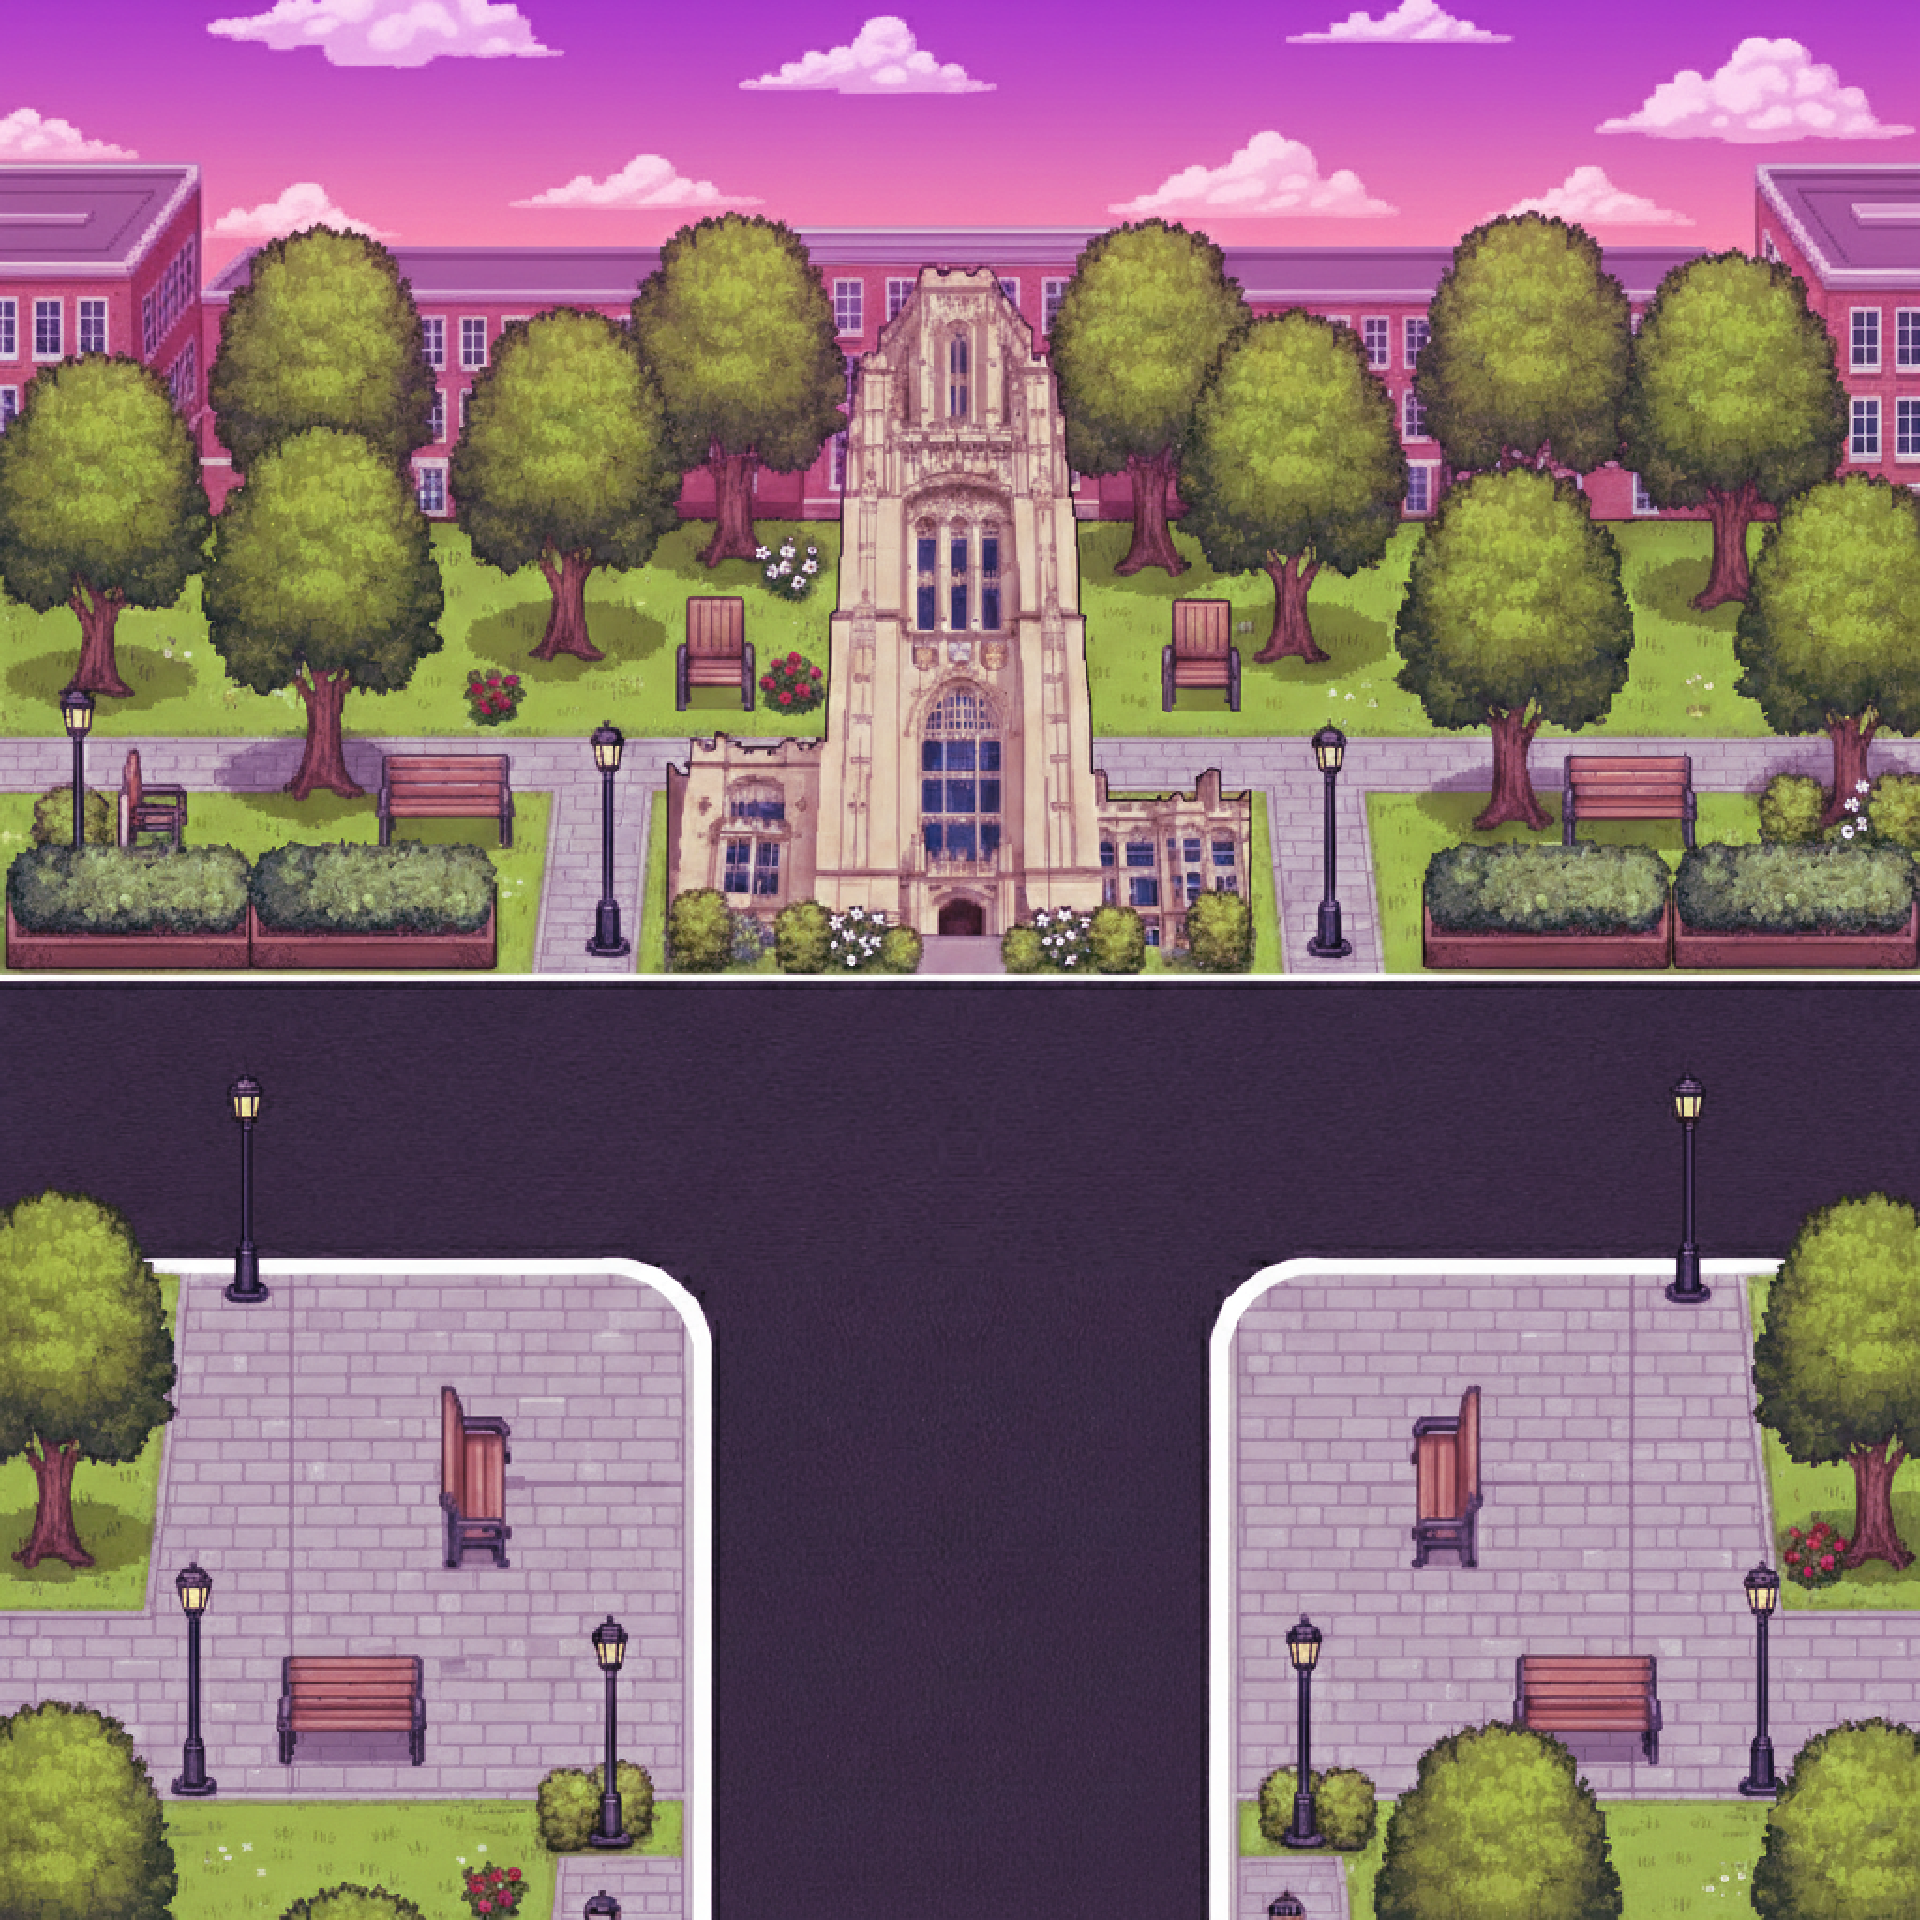
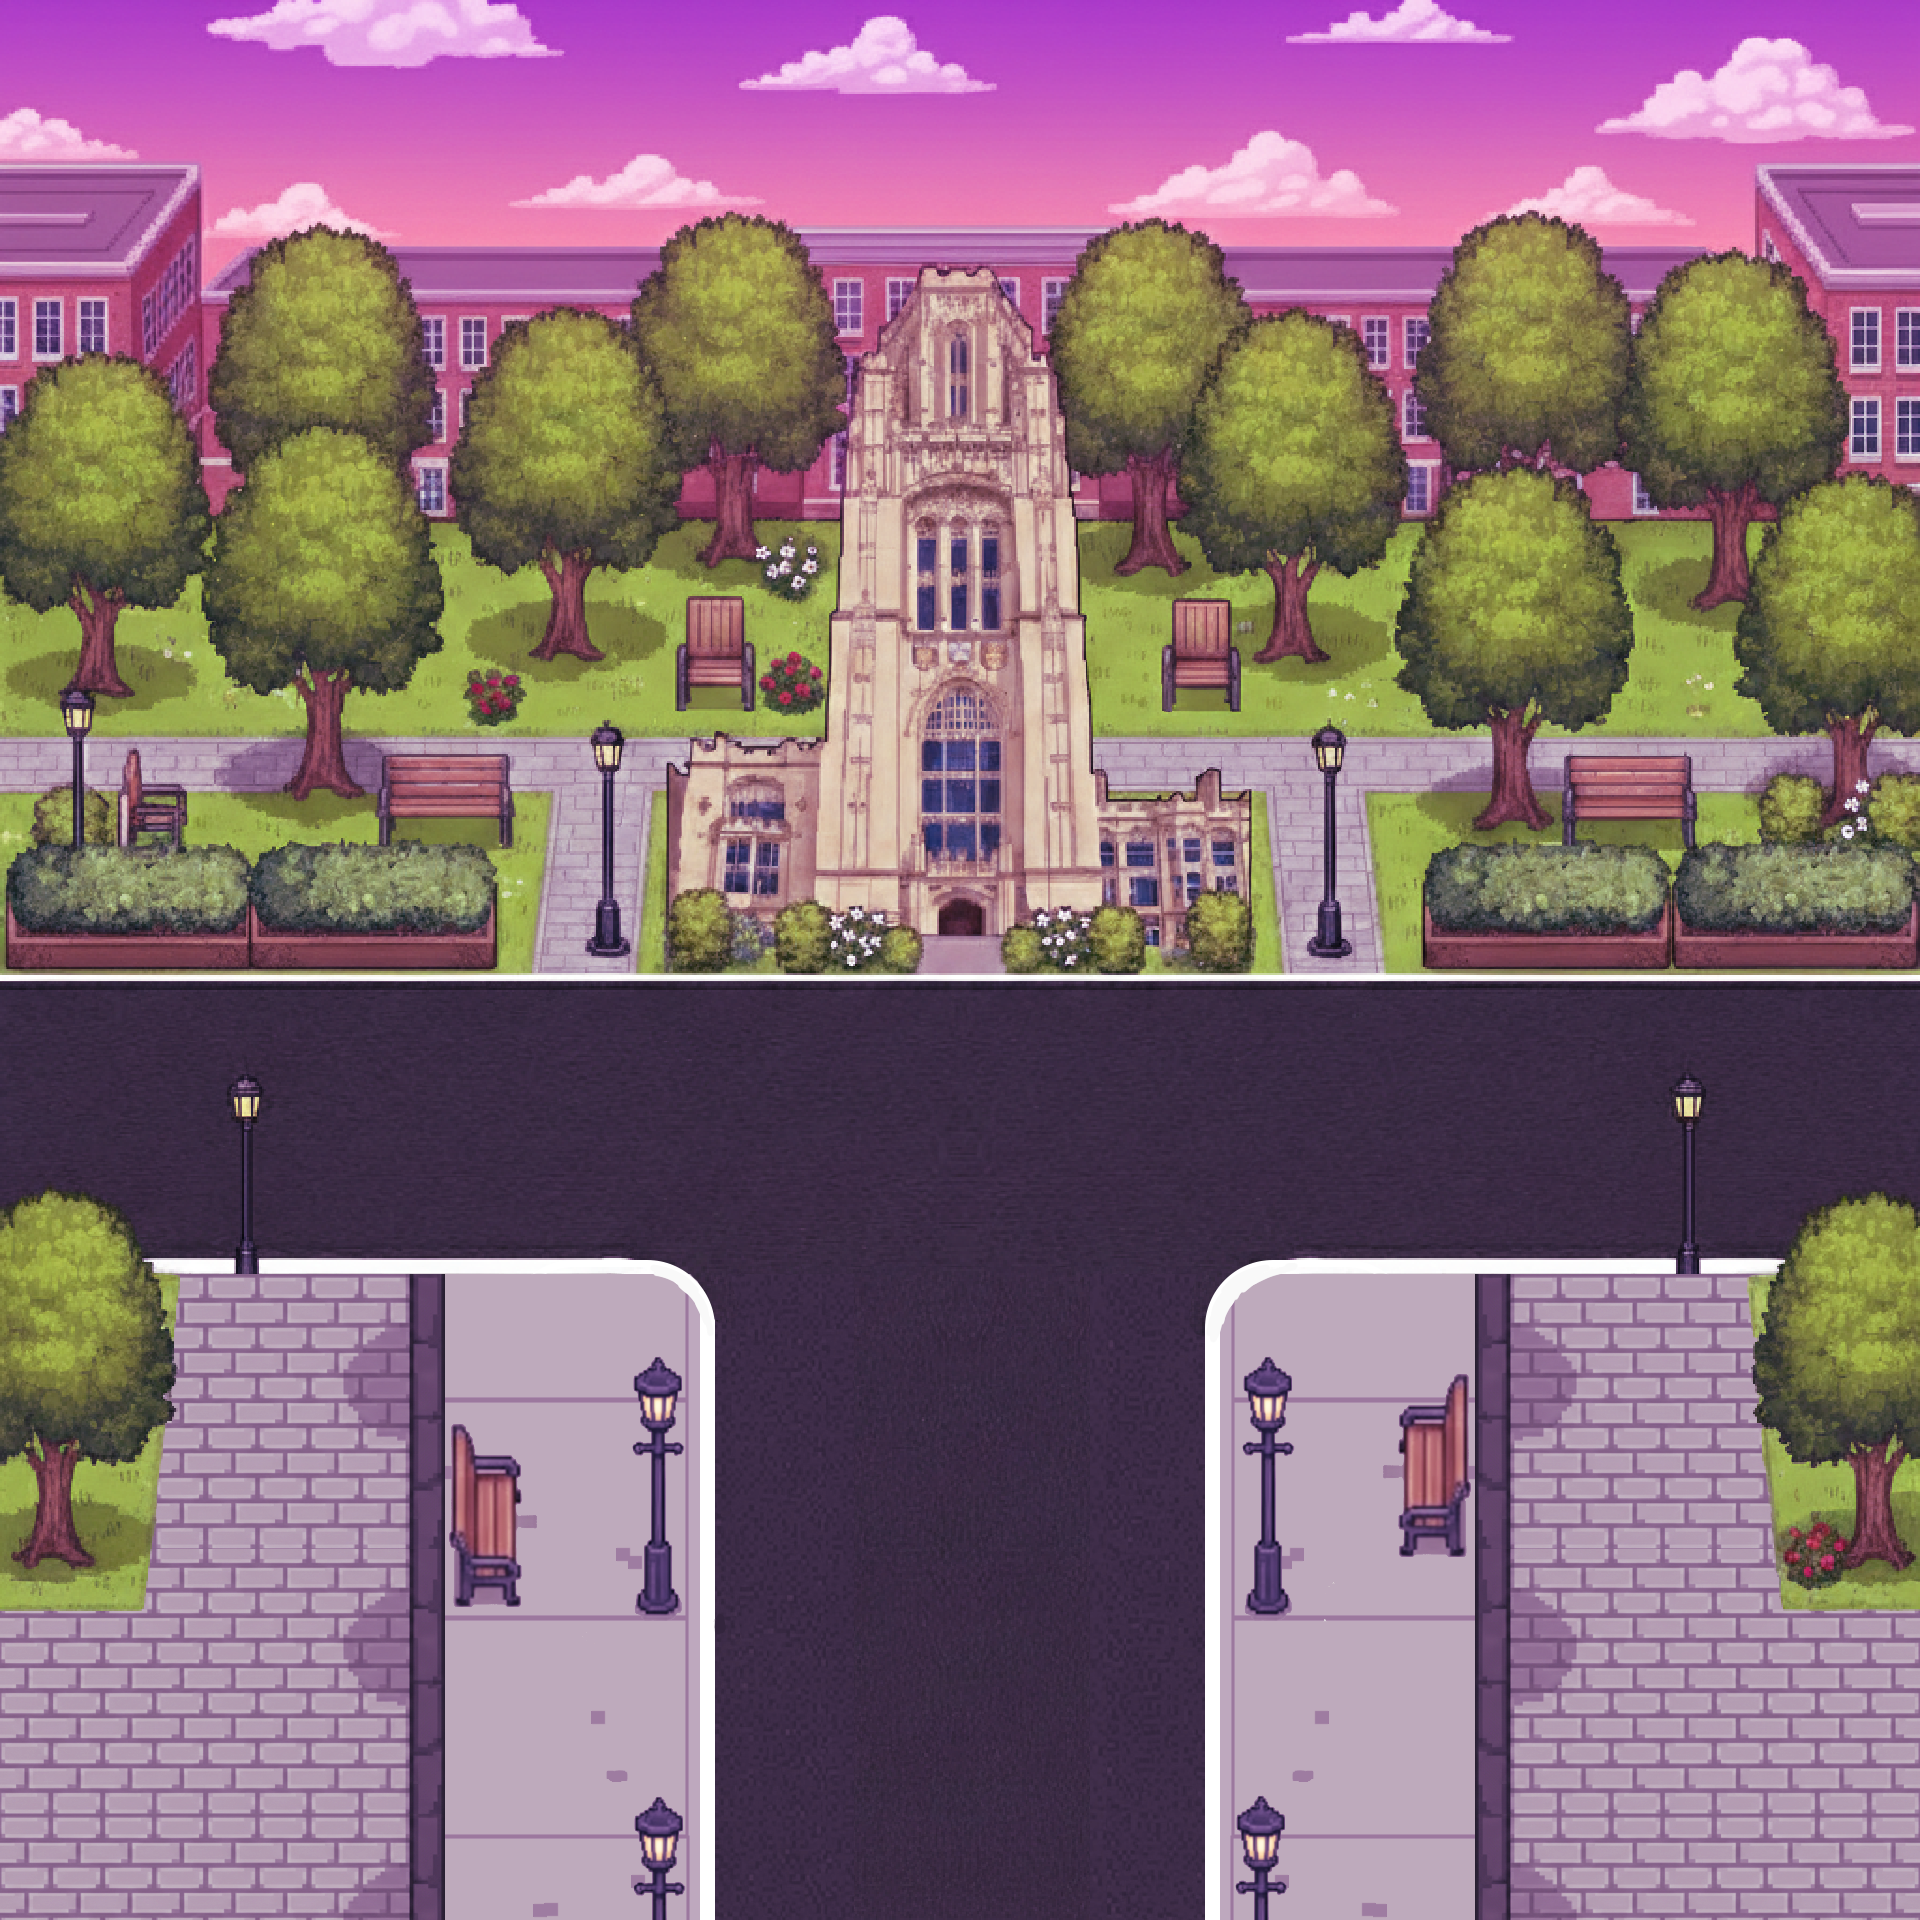
fix - Modified backgroud scroling logic to fix the premature backgroud cut-off issue before the finish line

Changed region(s): [[0.625, 0.6562, 1.0, 1.0], [0.0, 0.6562, 0.375, 1.0]]

diff --git a/pss/src/LevelController.js b/pss/src/LevelController.js
@@ -20,6 +20,7 @@ class LevelController {
       // Victory Phase Management
       this.levelPhase = "RUNNING"; // RUNNING, VICTORY_TRANSITION, or VICTORY_ZONE
       this.victoryStartScrollPos = 0; // Record scrollPos when victory triggers
+      this.victoryPreRollDistance = 0; // Pixels to finish current run tile before destination enters
       this.victoryZoneFrames = 0; // Frames spent in victory zone (1.5s = 90 frames)
       this.victoryZoneStartY = 0; // Y position of victory bg when entering VICTORY_ZONE
    }
@@ -60,6 +61,7 @@ class LevelController {
    resetRunPhaseState() {
       this.levelPhase = "RUNNING";
       this.victoryStartScrollPos = 0;
+      this.victoryPreRollDistance = 0;
       this.victoryZoneFrames = 0;
       this.victoryZoneStartY = 0;
 
@@ -248,7 +250,11 @@ class LevelController {
       console.log(`  - Level Phase: ${this.levelPhase}`);
       this.levelPhase = "VICTORY_TRANSITION";
       this.victoryStartScrollPos = env.scrollPos;
+      const runTileHeight = (env && env.defaultBg && env.defaultBg.height) ? env.defaultBg.height : 1080;
+      const normalizedOffset = ((env.scrollPos % runTileHeight) + runTileHeight) % runTileHeight;
+      this.victoryPreRollDistance = normalizedOffset === 0 ? 0 : (runTileHeight - normalizedOffset);
       console.log(`  - Victory Start ScrollPos: ${this.victoryStartScrollPos}`);
+      console.log(`  - Victory Pre-Roll Distance: ${this.victoryPreRollDistance}`);
 
       // Notify ObstacleManager to stop spawning
       if (obstacleManager) {
@@ -265,15 +271,17 @@ class LevelController {
          const bgHeight = (env && env.destinationBg && env.destinationBg.height)
             ? env.destinationBg.height
             : 1080;
+         const preRoll = Math.max(0, Number(this.victoryPreRollDistance) || 0);
          const scrolledSinceVictory = env.scrollPos - this.victoryStartScrollPos;
-         console.log(`[checkSettlementPoint] TRANSITION: scrolled=${scrolledSinceVictory.toFixed(1)}, target=${bgHeight}`);
+         const targetDistance = preRoll + bgHeight;
+         console.log(`[checkSettlementPoint] TRANSITION: scrolled=${scrolledSinceVictory.toFixed(1)}, preRoll=${preRoll.toFixed(1)}, target=${targetDistance}`);
 
-         if (scrolledSinceVictory >= bgHeight) {
+         if (scrolledSinceVictory >= targetDistance) {
             console.log(`[LevelController] 🎉 Victory Background Fully Visible! Entering settlement.`);
             this.levelPhase = "VICTORY_ZONE";
             this.victoryZoneFrames = 0;
             // Record victory bg Y position when entering VICTORY_ZONE (should be 0, bg top aligned with screen top)
-            this.victoryZoneStartY = scrolledSinceVictory - bgHeight;
+            this.victoryZoneStartY = (scrolledSinceVictory - preRoll) - bgHeight;
             GLOBAL_CONFIG.scrollSpeed = 0;
          }
          // Continue to next check without returning false yet

diff --git a/pss/src/Environment.js b/pss/src/Environment.js
@@ -123,11 +123,14 @@ class Environment {
             if (destinationBg) {
                 // Victory background enters based on how much we've scrolled since victory
                 const scrolledSinceVictory = this.scrollPos - levelController.victoryStartScrollPos;
+                const preRoll = Math.max(0, Number(levelController.victoryPreRollDistance) || 0);
+                const destinationProgress = scrolledSinceVictory - preRoll;
                 const destinationBgHeight = destinationBg.height || 1080;
 
-                if (scrolledSinceVictory >= 0) {
+                // Enter only after current run tile finishes scrolling out.
+                if (destinationProgress >= 0) {
                     // Victory background position: enters from bottom as we scroll
-                    const victoryEntryY = scrolledSinceVictory - destinationBgHeight;
+                    const victoryEntryY = destinationProgress - destinationBgHeight;
 
                     // Only display single tile
                     image(destinationBg, 0, victoryEntryY);
